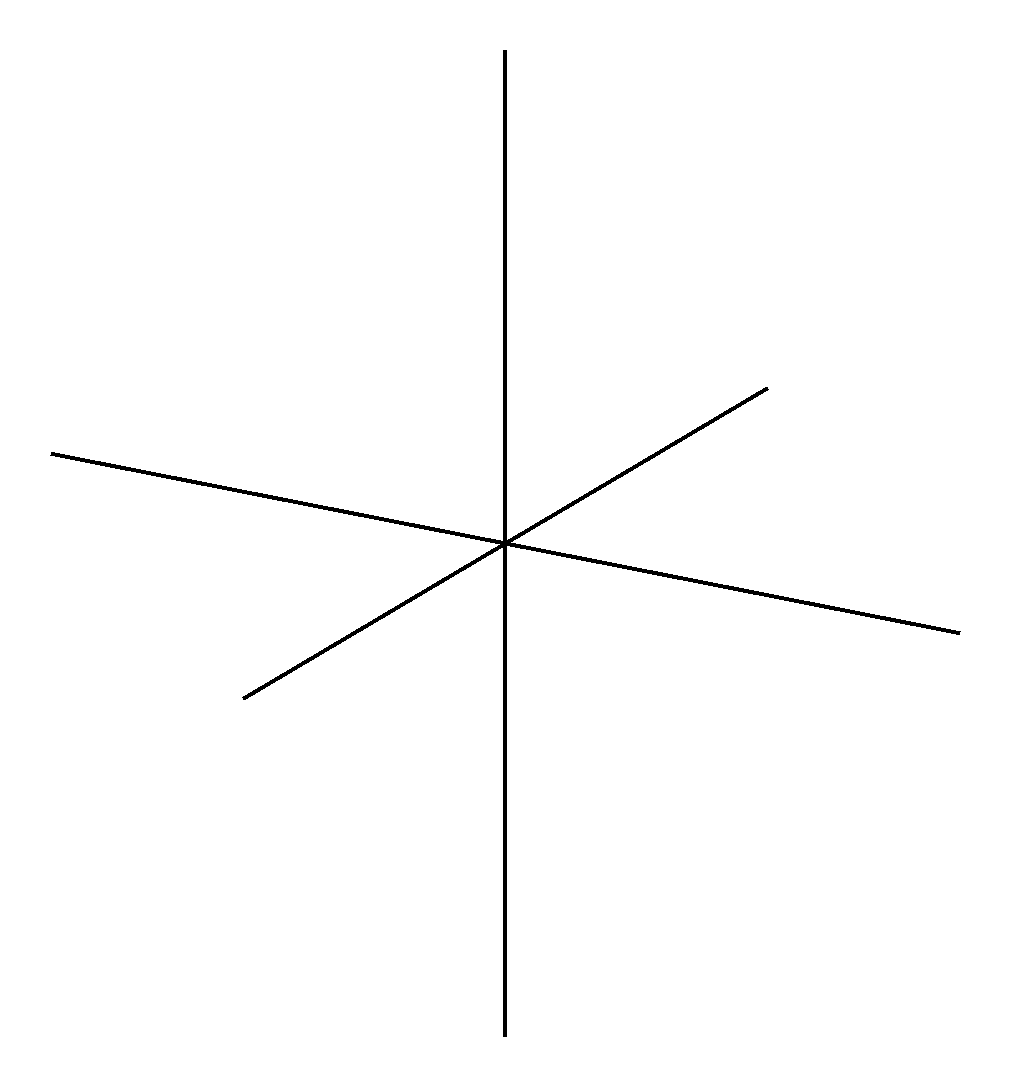
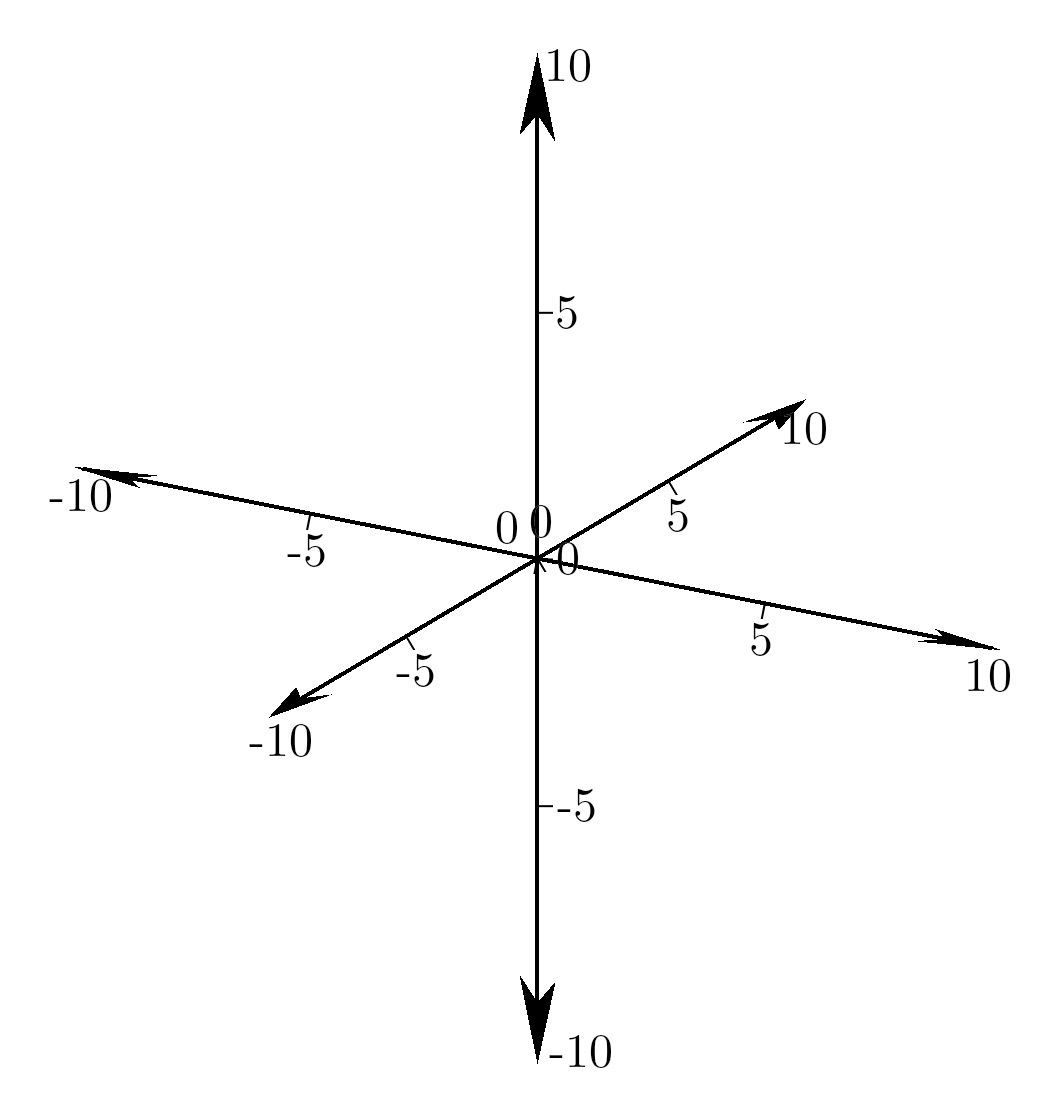
updated docs with arrows

diff --git a/docs/files.py b/docs/files.py
@@ -145,6 +145,7 @@ def createAllDocImages():
     create2DWithObject(kaxe.Fill(lambda x: math.sin(x), lambda x: 2*math.sin(x*3/4)), 'fill', [-10, 10, -3, 3])
 
     create3DWithObject(kaxe.ParametricEquation(lambda t: (math.cos(4*t), math.sin(4*t), t), [0, 4*math.pi], width=10, color=kaxe.Colormaps.standard), 'parametricequation3d', [-2, 2, -2, 2, 0, 4*math.pi])
+    create3DWithObject(kaxe.Arrow((0,0,0), (1,0,1)), 'arrow3d.png', [0,1,0,1,0,1])
 
     nums = 50
     points = [

diff --git a/docs/pages/objects.rst b/docs/pages/objects.rst
@@ -43,6 +43,9 @@ Smart objects adapts to which input is given at creates the corrosponding object
 
     .. image:: /_static/arrow.png
         :width: 400 px
+    
+    .. image:: /_static/arrow3d.png
+        :width: 400 px
 
 .. autoclass:: kaxe.Equation
     :members:
